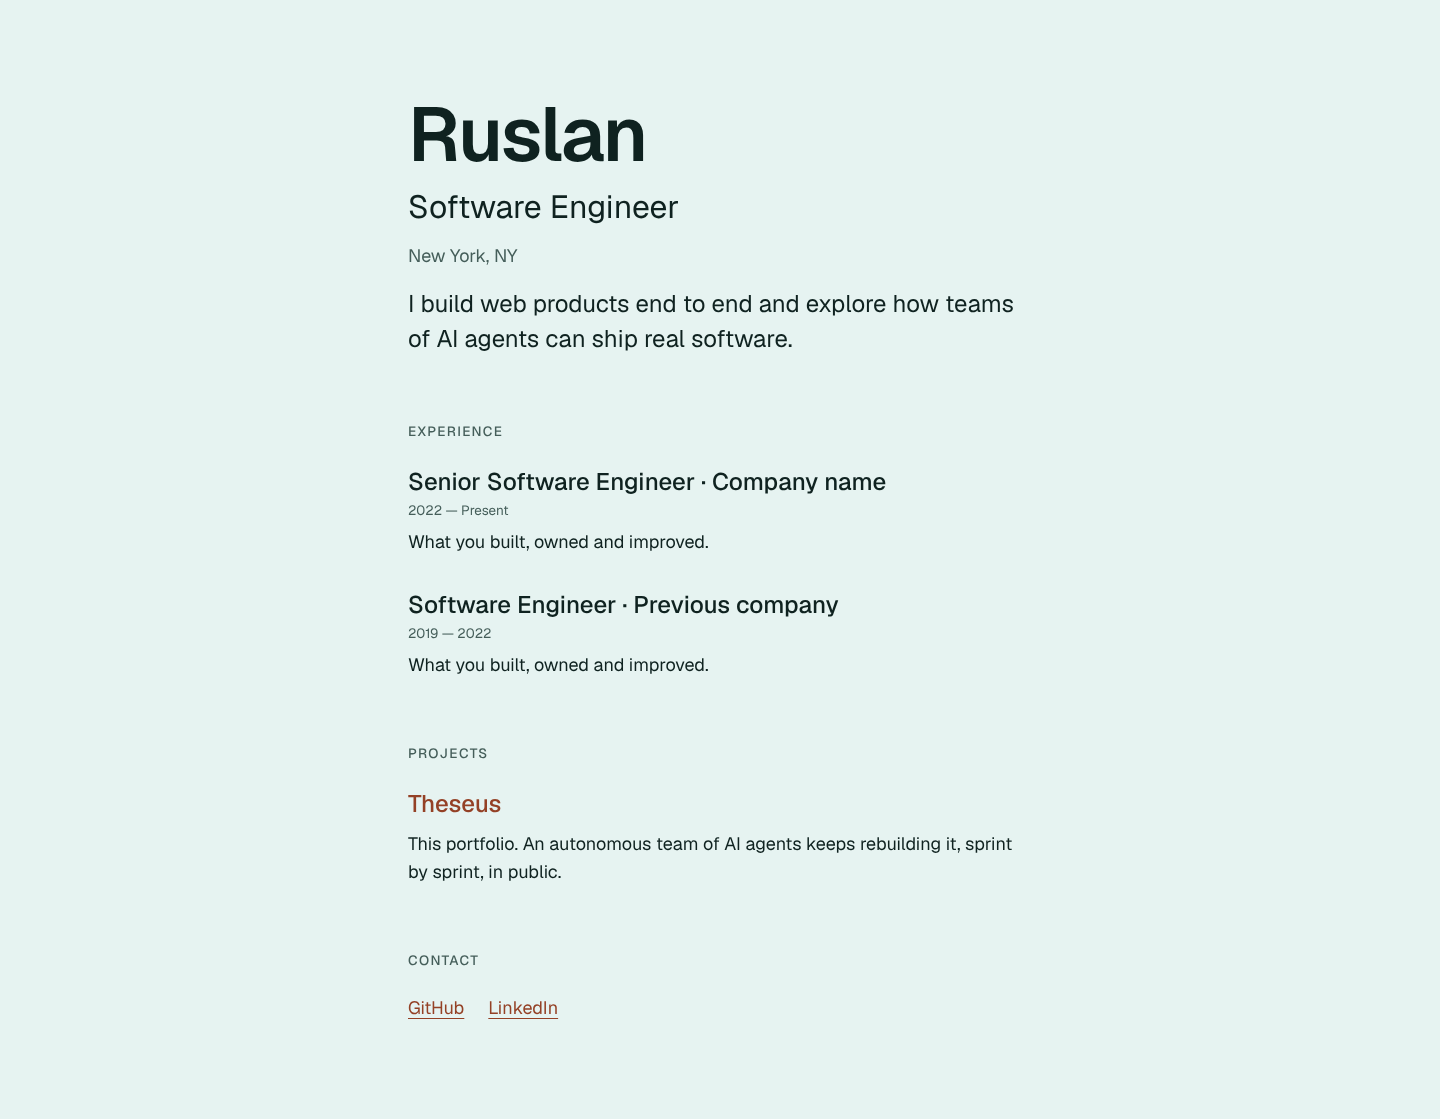
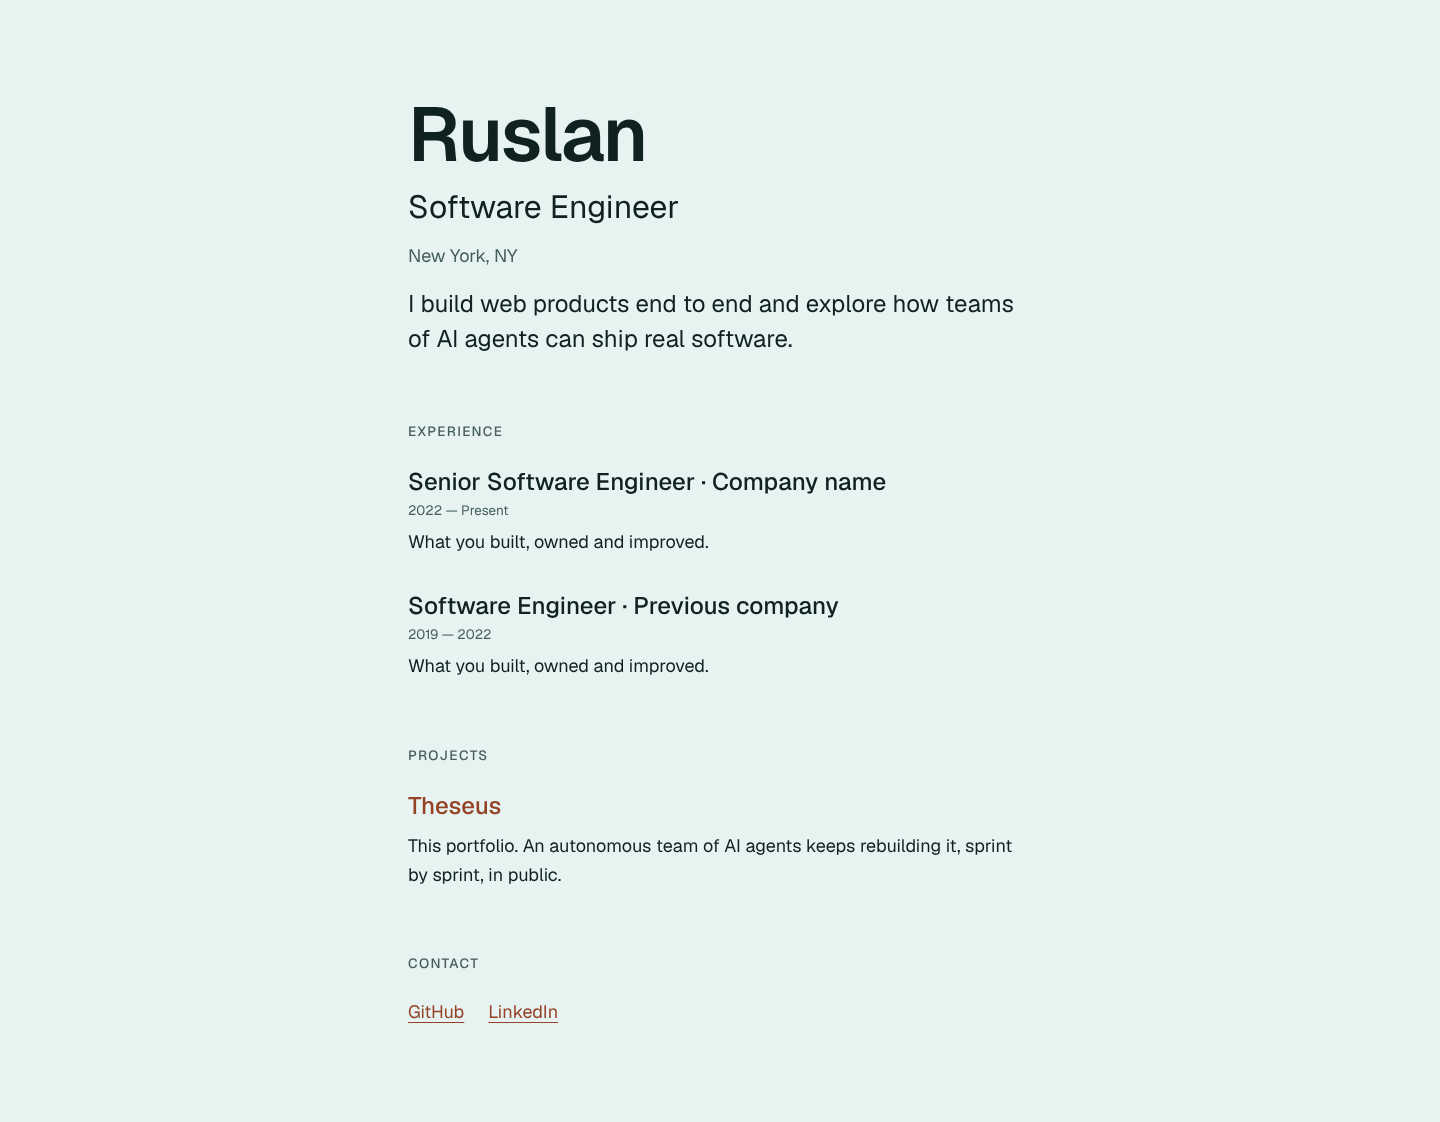
Sprint 1 fix round 1: balance titles, step line heights, scope Tailwind scanning
- text-balance on the role and project h3s so titles don't strand a word at 390px.
- Drop leading-7 from summaries and the project description; step-base's own
  line height applies (decisions.md item 4).
- Tailwind scans only app/ and components/, so the team's notes and skills no
  longer add unused utilities to production CSS (19946 -> 10298 bytes).

Claude-Session: https://claude.ai/code/session_01AXFgJaDtMc1ri744Ux4PQc

diff --git a/app/page.tsx b/app/page.tsx
@@ -17,11 +17,11 @@ export default function Home() {
         <ol className="flex flex-col gap-8">
           {profile.experience.map((role) => (
             <li key={`${role.company}-${role.period}`}>
-              <h3 className="text-step-lg font-medium">
+              <h3 className="text-balance text-step-lg font-medium">
                 {role.title} · {role.company}
               </h3>
               <p className="text-step-sm text-muted">{role.period}</p>
-              <p className="mt-2 text-step-base leading-7">{role.summary}</p>
+              <p className="mt-2 text-step-base">{role.summary}</p>
             </li>
           ))}
         </ol>
@@ -31,7 +31,7 @@ export default function Home() {
         <ul className="flex flex-col gap-8">
           {profile.projects.map((project) => (
             <li key={project.name}>
-              <h3 className="text-step-lg font-medium">
+              <h3 className="text-balance text-step-lg font-medium">
                 {project.href ? (
                   <a
                     href={project.href}
@@ -43,9 +43,7 @@ export default function Home() {
                   project.name
                 )}
               </h3>
-              <p className="mt-2 text-step-base leading-7">
-                {project.description}
-              </p>
+              <p className="mt-2 text-step-base">{project.description}</p>
             </li>
           ))}
         </ul>

diff --git a/app/globals.css b/app/globals.css
@@ -1,4 +1,8 @@
-@import "tailwindcss";
+/* Scan only the code that holds class names. Automatic detection also reads the team's notes and
+   skills (.studio, .claude), which shipped utilities no component uses. */
+@import "tailwindcss" source(none);
+@source "../app";
+@source "../components";
 
 /*
  * Design tokens. Mood: weathered bronze gone to sea-glass verdigris, with the links as the one
